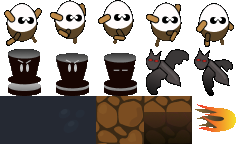
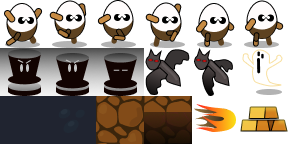
astar

diff --git a/src/entities/Ghost.js b/src/entities/Ghost.js
@@ -1,0 +1,116 @@
+import tilesImageURL from "../images/tiles_pixel.png";
+import TileSprite from "../cluster/core/TileSprite";
+import Texture from "../cluster/core/Texture";
+
+class Ghost extends TileSprite {
+  constructor() {
+    super(new Texture(tilesImageURL), 48, 48);
+    this.frame = { x: 5, y: 1 };
+    this.speed = 75;
+    this.counter = 0;
+    this.waypoints = [];
+    this.setWaypoints = () => {};
+    this.waypoint = { x: 0, y: 0 };
+    this.hitbox = {
+      x: 1,
+      y: 1,
+      width: 48,
+      height: 48,
+    };
+  }
+
+  lookLeft() {
+    this.anchor = { x: 0, y: 0 };
+    this.scale = { x: 1, y: 1 };
+  }
+
+  lookRight() {
+    this.anchor = { x: 48, y: 0 };
+    this.scale = { x: -1, y: 1 };
+  }
+
+  setWaypoint() {
+    return this.waypoints.pop();
+  }
+
+  followPath(dt, t) {
+    const { waypoints, position, speed } = this;
+    console.log("file: Ghost.js ~ line 38 ~ Ghost ~ followPath ~ waypoints", waypoints);
+    if (!waypoints.length) {
+      return;
+    }
+    const waypoint = this.waypoints.pop();
+    let waypointDistanceX = waypoint.x - position.x;
+    let waypointDistanceY = waypoint.y - position.y;
+    let step = speed * dt;
+    let isCloseX = Math.abs(waypointDistanceX) <= step;
+    let isCloseY = Math.abs(waypointDistanceY) <= step;
+    let dx = speed * (waypointDistanceX > 0 ? 1 : -1) * dt;
+    let dy = speed * (waypointDistanceY > 0 ? 1 : -1) * dt;
+
+    if (dx < 0) {
+      this.lookLeft();
+    } else if (dx > 0) {
+      this.lookRight();
+    }
+
+    if (!isCloseX) {
+      position.x += dx;
+    }
+
+    if (!isCloseY) {
+      position.y += dy;
+    }
+
+    if (isCloseX && isCloseY) {
+      this.waypoint = this.waypoints.pop();
+      if (waypoints.length === 0) {
+        this.setWaypoints();
+      }
+    }
+  }
+
+  update(dt, t) {
+    super.update(dt, t);
+    // this.followPath(dt, t);
+    // this.counter -= dt;
+    // if (this.counter < 0) {
+    //   this.counter = 10;
+    //   this.waypoints = this.setWaypoints().map((waypoint) => {
+    //     return {
+    //       x: waypoint.x * this.tileW,
+    //       y: waypoint.y * this.tileH,
+    //     };
+    //   });
+    //   this.waypoint = this.waypoints.pop();
+    // }
+
+    // const { waypoints, waypoint, position, speed } = this;
+    // let waypointDistanceX = waypoint.x - position.x;
+    // let waypointDistanceY = waypoint.y - position.y;
+    // let step = speed * dt;
+    // let isCloseX = Math.abs(waypointDistanceX) <= step;
+    // let isCloseY = Math.abs(waypointDistanceY) <= step;
+    // let dx = speed * (waypointDistanceX > 0 ? 1 : -1) * dt;
+    // let dy = speed * (waypointDistanceY > 0 ? 1 : -1) * dt;
+
+    // if (dx < 0) {
+    //   this.lookLeft();
+    // } else if (dx > 0) {
+    //   this.lookRight();
+    // }
+    // if (!isCloseX) {
+    //   position.x += dx;
+    // }
+
+    // if (!isCloseY) {
+    //   position.y += dy;
+    // }
+
+    // if (isCloseX && isCloseY) {
+    //   this.waypoint = this.waypoints.pop();
+    // }
+  }
+}
+
+export default Ghost;

diff --git a/src/levels/Level.js b/src/levels/Level.js
@@ -1,5 +1,7 @@
+import Pathfinder from "../cluster/core/Pathfinder";
 import tilesImageURL from "../images/tiles_pixel.png";
 import cluster from "../cluster";
+import entity from "../cluster/utils/entity";
 
 const { Texture, TileMap, math } = cluster;
 const TILE_INDEXES = [
@@ -34,6 +36,7 @@ class Level extends TileMap {
     const tileH = 48;
     const mapW = width / tileW;
     const mapH = height / tileH;
+
     // procedural maze generator
     const level = Array(mapW * mapH).fill(0);
     for (let y = 0; y < mapH; y++) {
@@ -88,15 +91,28 @@ class Level extends TileMap {
       tileH,
       texture
     );
+
+    // pathfinder
+    this.path = new Pathfinder(
+      this.map((tile) => {
+        let { position } = tile;
+        let { walkable = false } = tile.frame;
+        return {
+          position: {
+            x: position.x / tileW,
+            y: position.y / tileH,
+          },
+          walkable,
+        };
+      })
+    );
   }
 
   findFreeSpot() {
     const { mapW, mapH } = this;
-
     let x = 0;
     let y = 0;
     let found = false;
-
     while (!found) {
       x = math.rand(mapW);
       y = math.rand(mapH);
@@ -106,6 +122,18 @@ class Level extends TileMap {
       }
     }
     return this.mapToPixelPosition({ x, y });
+  }
+
+  findPath(enemy, player) {
+    const enemyCenter = entity.center(enemy);
+    const playerCenter = entity.center(player);
+    const enemyPosition = this.pixelToMapPosition(enemyCenter);
+    console.log("file: Level.js ~ line 131 ~ Level ~ findPath ~ enemyPosition", enemyPosition);
+    const playerPosition = this.pixelToMapPosition(playerCenter);
+    console.log("file: Level.js ~ line 133 ~ Level ~ findPath ~ playerPosition", playerPosition);
+    // const path = this.path.find(enemyPosition, playerPosition) || [];
+    return [];
+    // return path;
   }
 }
 

diff --git a/src/screens/GameScreen.js b/src/screens/GameScreen.js
@@ -6,6 +6,8 @@ import Bat from "../entities/Bat";
 import Level from "../levels/Level";
 import Totem from "../entities/Totem";
 import Bullet from "../entities/Bullet";
+import Ghost from "../entities/Ghost";
+import TileSprite from "../cluster/core/TileSprite";
 
 class GameScreen extends Container {
   constructor(game, controller) {
@@ -62,12 +64,25 @@ class GameScreen extends Container {
   }
 
   setEnemies() {
-    const { baddies, level } = this;
+    const { player, baddies, level } = this;
+    // bats
     for (let i = 0; i < 3; i++) {
       const bat = baddies.add(new Bat());
       bat.position = level.findFreeSpot();
       bat.waypoint = level.findFreeSpot();
-      bat.setWaypoint = () => level.findFreeSpot();
+      bat.setWaypoint = () => {
+        return level.findFreeSpot();
+      };
+    }
+
+    // ghosts
+    for (let i = 0; i < 1; i++) {
+      const ghost = baddies.add(new Ghost());
+      ghost.position = level.findFreeSpot();
+      // ghost.waypoints = level.findPath(ghost, player);
+      // ghost.setWaypoints = () => {
+      //   return level.findPath(ghost, player);
+      // };
     }
   }
 
@@ -76,12 +91,17 @@ class GameScreen extends Container {
     this.setEnemies();
   }
 
-  update(dt, t) {
+  async update(dt, t) {
     super.update(dt, t);
-    const { player, pickups } = this;
+    const { player, baddies, pickups } = this;
 
-    // collision detection player - maze walls
-    // ...
+    // collision detection player - enemies
+    baddies.children.forEach((enemy) => {
+      entity.hit(player, enemy, () => {
+        // enemy.dead = true;
+        // GAE OVER
+      });
+    });
 
     // collision detection player - pickups
     pickups.children.forEach((pickup) => {

diff --git a/src/cluster/core/Pathfinder.js b/src/cluster/core/Pathfinder.js
@@ -67,7 +67,7 @@ class Pathfinder {
   /**
    * Pathfinder
    * Handles the in-game pathfinding using the A* algorithm.
-   * @param {Array<{x: number, y: number, walkable: boolean}>} nodeMap array of map positions and walkable flag
+   * @param {Array<{position: Object, walkable: boolean}>} nodeMap array of map positions and walkable flag
    * @return {Pathfinder}
    */
   constructor(nodeMap) {
@@ -79,6 +79,7 @@ class Pathfinder {
         walkable || false
       )
     })
+
     this.#initialize();
   }
 
@@ -229,6 +230,28 @@ class Pathfinder {
       });
     }
   }
+
+  // /**
+  //  * findAsync()
+  //  * Finds the shortest path from the "startPosition"
+  //  * to the "endPosition". Returns an arrey of map position coordinates
+  //  * from the targetNode, backward to the starting node.
+  //  * The returned coordinates are in map position.
+  //  * @param {Object} startNode xy map position coordinates of the start point
+  //  * @param {Object} targetNode xy map position coordinates of the end point
+  //  * @returns {Array<{x,y}>} array of successive map points across the path
+  //  * @public
+  //  */
+  // findAsync(startNode, targetNode) {
+  //   return new Promise((resolve, reject) => {
+  //     const path = this.find(startNode, targetNode);
+  //     if (path) {
+  //       resolve(path);
+  //     } else {
+  //       reject(new Error("Pathfinder: something went wrong"));
+  //     }
+  //   });
+  // }
 }
 
 export default Pathfinder;

diff --git a/src/entities/Bat.js b/src/entities/Bat.js
@@ -9,6 +9,12 @@ class Bat extends TileSprite {
     this.speed = 100;
     this.waypoint = { x: 0, y: 0 };
     this.setWaypoint = () => {};
+    this.hitbox = {
+      x: 0,
+      y: 0,
+      width: 48,
+      height: 48,
+    };
     this.animation.add(
       "fly",
       [
@@ -17,7 +23,6 @@ class Bat extends TileSprite {
       ],
       0.25
     );
-
     this.animation.play("fly");
   }
 
